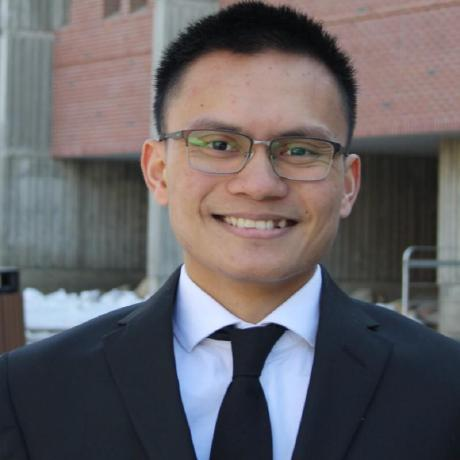
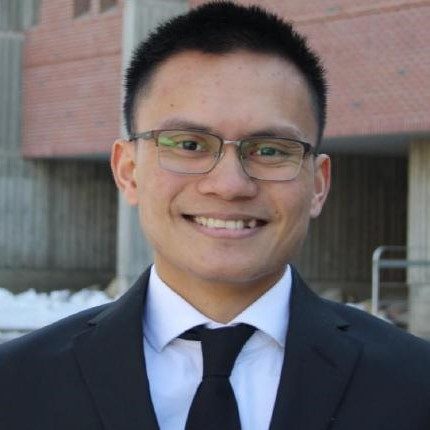
Improved Hero spacing

diff --git a/src/styles/hero.css b/src/styles/hero.css
@@ -9,24 +9,23 @@
   --secondary: #68A6A9;
   --accent: #FFC372;
 
-
+  --fs-400: 1rem;
+  --fs-600: 2rem;
+  --fs-lg: 10vw;
 }
 
 .hero {
   background-color: var(--neut);
   display: flex;
-  justify-content: space-around;
+  justify-content: space-between;
   align-items: center;
-  padding: 2rem 10vw;
-  /* margin-bottom: 2rem; */
+  padding: 0 5vw;
 }
 
 .prof-pic-wrapper {
   background-color: var(--secondary);
-  width: 40vw;
-  height: 33vw;
-  /* padding-top: 12%; */
-  /* overflow: hidden; */
+  display: flex;
+  align-items: center;
   padding: 0.125rem;
   border-radius: 20%;
 }
@@ -39,16 +38,34 @@
 
 .about-me-wrapper {
   width: 60vw;
-  padding: 2rem;
-  line-height: 1.75rem;
+  padding: 2% 10%;
 }
 
 .about-me-txt {
   font-size: 1.3rem;
+  line-height: 2.5rem;
+  text-align: left;
 }
 
 @media (max-width: 745px) {
+  .hero {
+    padding: 0 2vw;
+
+  }
+
+  .about-me-wrapper {
+    width: 80vw;
+    padding: 3%;
+  }
+
   .about-me-txt {
     font-size: 0.8rem;
+    line-height: 1rem;
+  }
+}
+
+@media (min-width: 585px) {
+  .hero {
+    padding: 2vw 5vw;
   }
 }

diff --git a/src/components/Hero.jsx b/src/components/Hero.jsx
@@ -9,7 +9,7 @@ const Hero = () => {
         <img src={rafpic} className="prof-pic"></img>
       </div>
       <div className="about-me-wrapper">
-        <p className="about-me-txt">Hi, I'm Raphael. I am an Engineering student at the University of Victoria. I have a strong passion for web development with experience in HTML, CSS, JavaScript, React, and React Native. I have completed several projects (check them out below!), and I'm still learning a little more each day. <br />Thank you for visiting!</p>
+        <p className="about-me-txt">Hi, I'm Raphael. I am an Engineering student at the University of Victoria. I have a strong passion for web development with experience in HTML, CSS, JavaScript, React, and React Native. I have completed several projects (check them out below!), and I'm still learning a little more each day. <br/><br/>Thank you for visiting!</p>
       </div>
     </section>
   );
